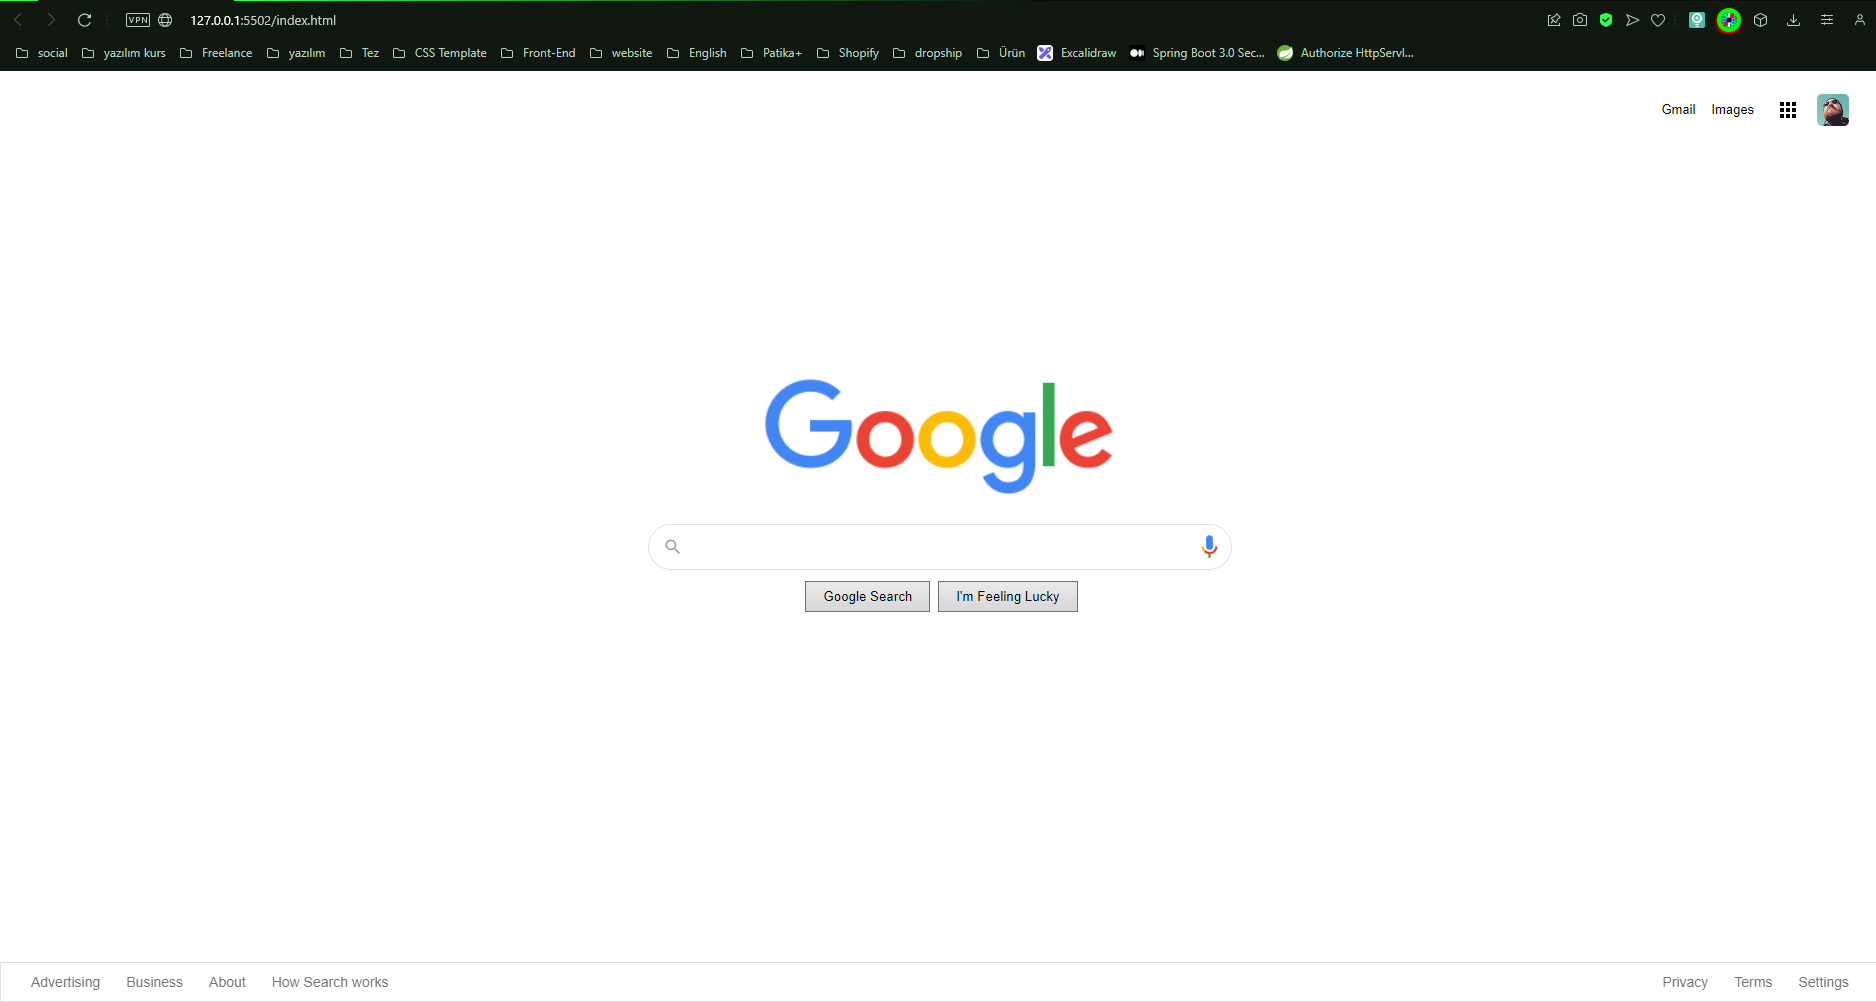
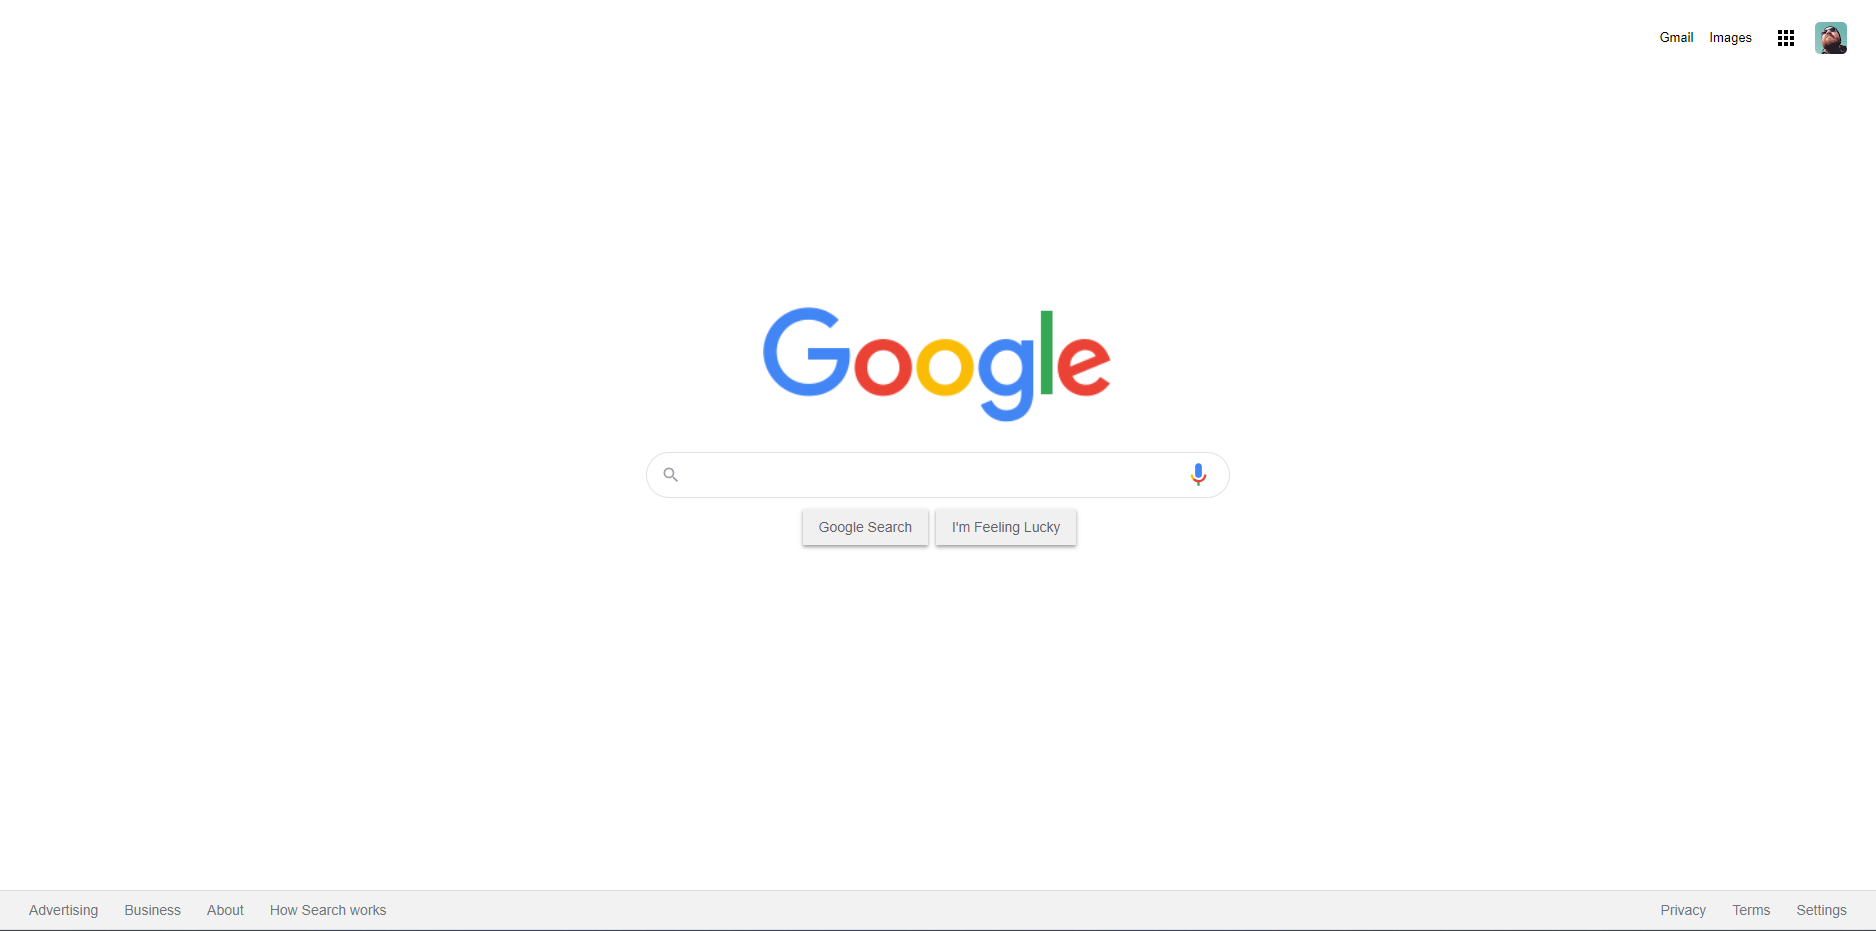
updated

diff --git a/Week2/odev2/index.html b/Week2/odev2/index.html
@@ -3,7 +3,7 @@
   <head>
     <meta charset="UTF-8" />
     <meta name="viewport" content="width=device-width, initial-scale=1.0" />
-    <link rel="stylesheet" href="/css/style.css" />
+    <link rel="stylesheet" href="css/style.css" />
     <title>Google</title>
   </head>
   <body>
@@ -13,14 +13,14 @@
           <li class="pic headerli">
             <a href="https://www.github.com/cengizcmataraci" target="_blank"
               ><img
-                src="/assets/profilepic.jpg"
+                src="assets/profilepic.jpg"
                 alt=""
                 style="margin-right: 1px; border-radius: 5px;"
             /></a>
           </li>
           <li style="margin: 8px" class="headerli">
             <a href="https://www.google.com.tr/intl/en/about/products?tab=wh"
-              ><img src="/assets/appsbutton.svg" alt="" style="width: 16px; height: 16px; margin-right: 3px;"></a
+              ><img src="assets/appsbutton.svg" alt="" style="width: 16px; height: 16px; margin-right: 3px;"></a
             >
           </li>
           <li style="margin: 8px; margin-left: -2px;" class="headerli">
@@ -38,7 +38,7 @@
       </nav>
       <div class="container">
         <img
-          src="/assets/logo.png"
+          src="assets/logo.png"
           width="350px"
           alt=""
         />

diff --git a/Week2/odev2/css/style.css b/Week2/odev2/css/style.css
@@ -95,7 +95,7 @@ box-shadow: 0 2px 3px 0 rgba(0,0,0,0.24), 0 2px 5px 0 rgba(0,0,0,0.19);
   outline: none;
   display: flex;
   flex: 100%;
-  width: 500px;
+  width: 480px;
   margin-top: -68px;
   font: 16px arial, sans-serif;
   line-height: 34px;
@@ -120,6 +120,12 @@ box-shadow: 0 2px 3px 0 rgba(0,0,0,0.24), 0 2px 5px 0 rgba(0,0,0,0.19);
   text-align: center;
   cursor: pointer;
   user-select: none;
+  border: 1px #f2f2f2;
+  font-family: Arial, Helvetica, sans-serif;
+  color: #5f6368;
+  font-size: 14px;
+  height: 36px;
+  box-shadow: 0 2px 3px 0 rgba(0,0,0,0.24), 0 2px 5px 0 rgba(0,0,0,0.19);
 }
 
 .buttons {
@@ -133,9 +139,16 @@ box-shadow: 0 2px 3px 0 rgba(0,0,0,0.24), 0 2px 5px 0 rgba(0,0,0,0.19);
   text-align: center;
   cursor: pointer;
   user-select: none;
+  border: 1px #f2f2f2;
+  font-family: Arial, Helvetica, sans-serif;
+  color: #5f6368;
+  font-size: 14px;
+  height: 36px;
+  box-shadow: 0 2px 3px 0 rgba(0,0,0,0.24), 0 2px 5px 0 rgba(0,0,0,0.19);
 }
 
 .footer {
+  background-color: #f2f2f2;
   list-style-type: none;
   margin: 0;
   padding: 0;
